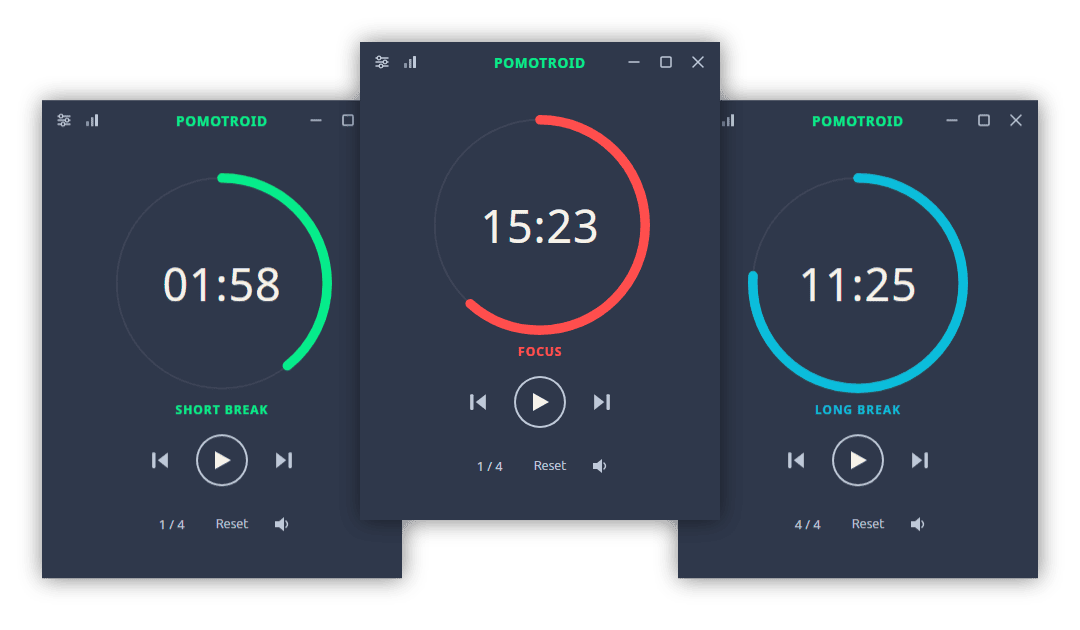
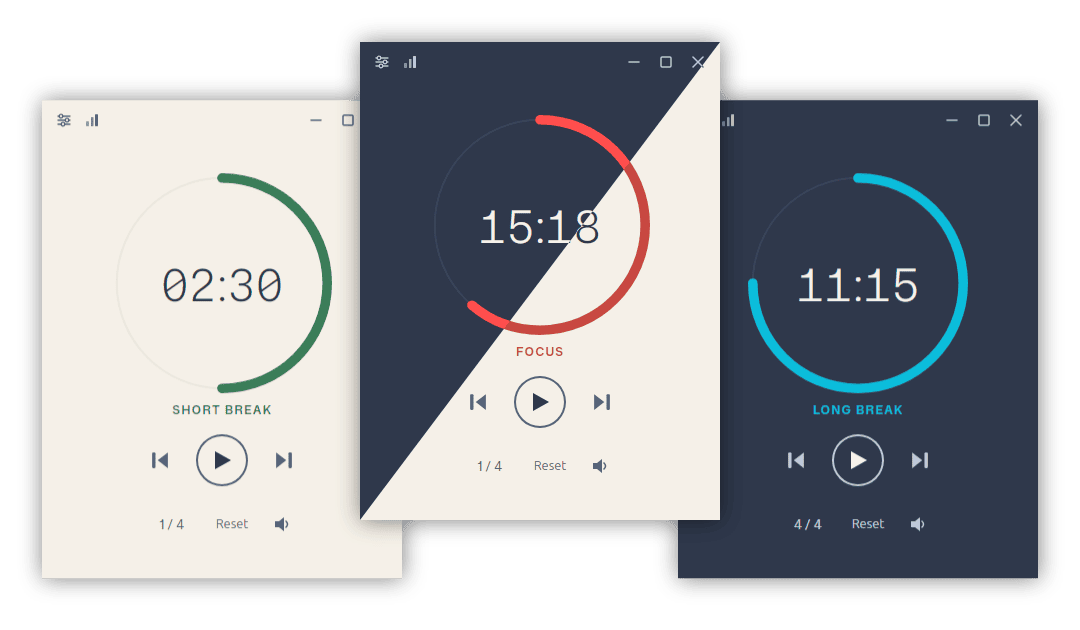
docs: Update screenshots, languages in README.

diff --git a/README.md b/README.md
@@ -30,7 +30,7 @@ Built with [Tauri 2](https://tauri.app), [Rust](https://www.rust-lang.org), and 
 - **Statistics** — daily, weekly, and all-time session history with charts and a 52-week heatmap
 - **37 bundled themes** — including Dracula, Nord, Tokyo Night, Catppuccin, Gruvbox, Rose Piné, and more; auto-switches with your OS light/dark preference
 - **Custom themes** — drop a JSON file into the themes folder; applied instantly without a restart
-- **Localization** — 7 languages: English, Spanish, French, German, Japanese, Chinese (Simplified), and Portuguese; auto-detects OS language
+- **Localization** — 8 languages: English, Spanish, French, German, Japanese, Chinese (Simplified), Turkish, and Portuguese; auto-detects OS language
 - **Global shortcuts** — control the timer from anywhere, even when the window is hidden
 - **Custom audio** — replace the built-in alert sounds with your own files
 - **Tick sounds** — optional ticking during work and break rounds, independently toggleable
